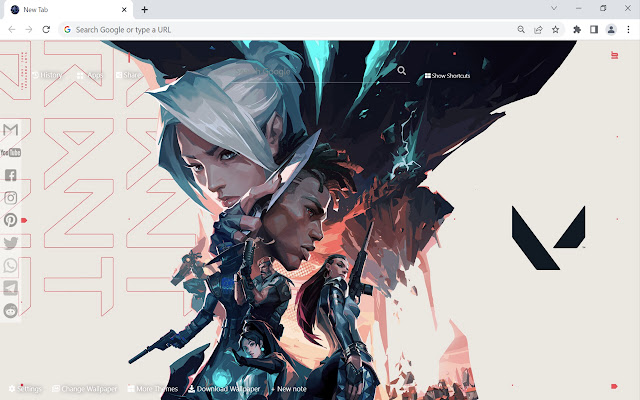
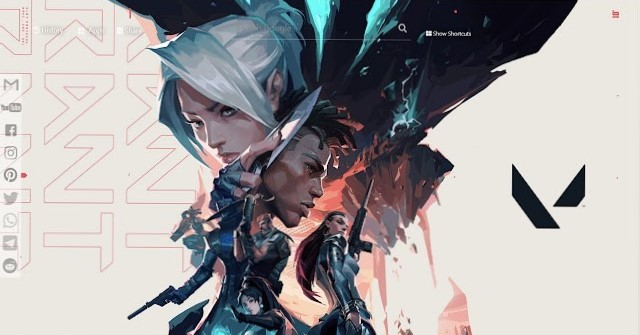
created and worked on leaderboard

diff --git a/src/containers/Leaderboard/Leaderboard.js b/src/containers/Leaderboard/Leaderboard.js
@@ -1,0 +1,69 @@
+import React, { useEffect, useState } from "react";
+import { FontAwesomeIcon } from "@fortawesome/react-fontawesome";
+import { faArrowRightRotate } from "@fortawesome/free-solid-svg-icons";
+import "./Leaderboard.css";
+
+function Leaderboard() {
+  const [boardData, setBoardData] = useState([]);
+  const [boardRegion, setRegion] = useState("eu");
+
+  // useEffect(() => {
+  //   fetch("https://api.henrikdev.xyz/valorant/v1/leaderboard/ap", {
+  //     headers: {
+  //       accept: "application/json",
+  //       "Content-Type": "application/json",
+  //     },
+  //   })
+  //     .then((res) => res.json())
+  //     .then((result) => {
+  //       setBoardData(result);
+  //     })
+  //     .catch((err) => {
+  //       console.error("Error while getting leaderboard: ", err.message);
+  //     });
+  // }, []);
+
+  const handleRegionChange = (e) => {
+    setRegion(e.target.value);
+  };
+
+  return (
+    <div className="leaderboard-container">
+      {/* {boardData.length
+        ? boardData.map((e, i) => {
+            return (
+              <div key={i}>
+                {i + 1} {e.gameName}
+              </div>
+            );
+          })
+        : "No Data"} */}
+      <div className="board-nav">
+        <div className="region-dropdown-container">
+          Region:
+          <select
+            name="region"
+            id="regionDropdown"
+            value={boardRegion}
+            onChange={handleRegionChange}
+          >
+            <option value="eu">Europe (EU)</option>
+            <option value="na">North America (NA)</option>
+            <option value="ap">Asia Pacific (AP)</option>
+            <option value="kr">Korea (KR)</option>
+            <option value="latam">Latin America (LATAM)</option>
+            <option value="br">Brazil (BR)</option>
+          </select>
+        </div>
+        <div className="reload-container">
+          <a href="#">
+            <FontAwesomeIcon icon={faArrowRightRotate} />
+          </a>
+        </div>
+      </div>
+      Leaderboard
+    </div>
+  );
+}
+
+export default Leaderboard;

diff --git a/src/components/Navbar/Navbar.css b/src/components/Navbar/Navbar.css
@@ -1,24 +1,26 @@
 .navbar-container {
   background: var(--clr-main-600);
-  height: 60px;
-  width: 100vw;
+  height: 100vh;
+  width: 100%;
+  max-width: 300px;
   z-index: 1000;
-  padding: 0.5rem 2rem;
+  padding: 0.5rem 1rem;
   /* max-width: 1440px; */
-  margin: auto;
+  /* margin: auto; */
   box-shadow: 0 0 5px var(--clr-main-600);
-  display: flex;
+  /* display: flex; */
   justify-content: center;
 }
 
 .brand-container {
   width: fit-content;
-  height: 100%;
+  /* height: 100%; */
   display: flex;
   justify-content: center;
   align-items: center;
   gap: 1rem;
   margin-right: auto;
+  padding: 0.5rem 1rem;
 }
 
 .brand-icon {
@@ -34,21 +36,65 @@
 }
 
 .navbar-content {
-  display: flex;
+  /* display: flex; */
   justify-content: center;
   align-items: center;
   gap: 0.5rem;
+  margin-top: 3rem;
 }
 
 .navbar-content a {
+  text-align: left;
+  position: relative;
   display: block;
   /* height: 100%; */
-  padding: 0.5rem 1rem;
+  padding: 1rem 1.5rem;
+  margin: 1rem 0;
   color: var(--clr-font);
   text-decoration: none;
-  border-radius: 3px;
+  border-radius: var(--border-radius-500);
+  z-index: 1001;
 }
 
-.navbar-content a:hover {
-  border-bottom: 3px solid red;
+.navbar-content a svg {
+  font-size: 1.25rem;
+  margin: auto;
+  margin-right: 0.5rem;
+}
+
+.navbar-content a::before {
+  content: "";
+  height: 0;
+  bottom: 0;
+  z-index: -1;
+  transition: var(--transition-100);
+}
+.navbar-content a::after {
+  content: "";
+  width: 0%;
+  left: 50%;
+  transform: translate(-50%, 0);
+  transition: all 0.3s ease-in-out;
+}
+
+.navbar-content a:hover:after {
+  position: absolute;
+  bottom: 0;
+  left: 50%;
+  transform: translate(-50%, 0);
+  width: 90%;
+  height: 3px;
+  background: red;
+  border-radius: var(--border-radius-500);
+}
+
+.active::before {
+  content: "";
+  position: absolute;
+  bottom: 0;
+  left: 0;
+  height: 100% !important;
+  width: 100%;
+  border-radius: var(--border-radius-500);
+  background-color: rgba(255, 0, 0, 0.5);
 }

diff --git a/src/components/Navbar/Navbar.js b/src/components/Navbar/Navbar.js
@@ -1,4 +1,12 @@
+import {
+  faHome,
+  faInfoCircle,
+  faRankingStar,
+  faUser,
+} from "@fortawesome/free-solid-svg-icons";
+import { FontAwesomeIcon } from "@fortawesome/react-fontawesome";
 import React from "react";
+import { NavLink } from "react-router-dom";
 import ValorantIcon from "../../assets/icons/valorantIcon.png";
 import "./Navbar.css";
 
@@ -14,10 +22,18 @@ function Navbar() {
         </div>
       </div>
       <div className="navbar-content">
-        <a href="#">Home</a>
-        <a href="#">Stats</a>
-        <a href="#">Leaderboard</a>
-        <a href="#">About Me</a>
+        <NavLink to={"/"}>
+          <FontAwesomeIcon icon={faHome} /> <span>Home</span>
+        </NavLink>
+        <NavLink to={"/stats"}>
+          <FontAwesomeIcon icon={faUser} /> <span>Player Stats</span>
+        </NavLink>
+        <NavLink to={"/leaderboard"}>
+          <FontAwesomeIcon icon={faRankingStar} /> <span>Leaderboard</span>
+        </NavLink>
+        <NavLink to={"/aboutme"}>
+          <FontAwesomeIcon icon={faInfoCircle} /> <span>About Me</span>
+        </NavLink>
       </div>
     </div>
   );

diff --git a/src/App.js b/src/App.js
@@ -1,14 +1,20 @@
 import "./App.css";
-import ValorantIcon from "./assets/icons/valorantIcon.png";
+import { BrowserRouter as Router, Routes, Route } from "react-router-dom";
 import Navbar from "./components/Navbar/Navbar";
 import Home from "./containers/Home/Home";
+import Leaderboard from "./containers/Leaderboard/Leaderboard";
 
 function App() {
   return (
     <div className="App">
       <div className="background-watermark"></div>
-      <Navbar />
-      <Home />
+      <Router>
+        <Navbar />
+        <Routes>
+          <Route path="/" element={<Home />} />
+          <Route path="/leaderboard" element={<Leaderboard />} />
+        </Routes>
+      </Router>
     </div>
   );
 }

diff --git a/src/index.css b/src/index.css
@@ -7,6 +7,10 @@
   --clr-main: #282c34;
   --clr-main-600: #23272e;
   --clr-font-main: #fff;
+  --border-radius-500: 5px;
+  --transition-100: all 0.3s ease-in-out;
+  --transition-500: all 0.7s ease-out;
+  --transition-900: all 1s ease-out;
 }
 
 body {
@@ -23,4 +27,10 @@ body {
 code {
   font-family: source-code-pro, Menlo, Monaco, Consolas, "Courier New",
     monospace;
+}
+
+a {
+  color: inherit;
+  text-decoration: none;
+  cursor: pointer;
 }

diff --git a/src/App.css b/src/App.css
@@ -1,6 +1,6 @@
 .App {
   text-align: center;
-
+  display: flex;
   width: 100%;
   height: 100%;
 }

diff --git a/src/containers/Leaderboard/Leaderboard.css b/src/containers/Leaderboard/Leaderboard.css
@@ -1,0 +1,3 @@
+.board-nav {
+  display: flex;
+}
